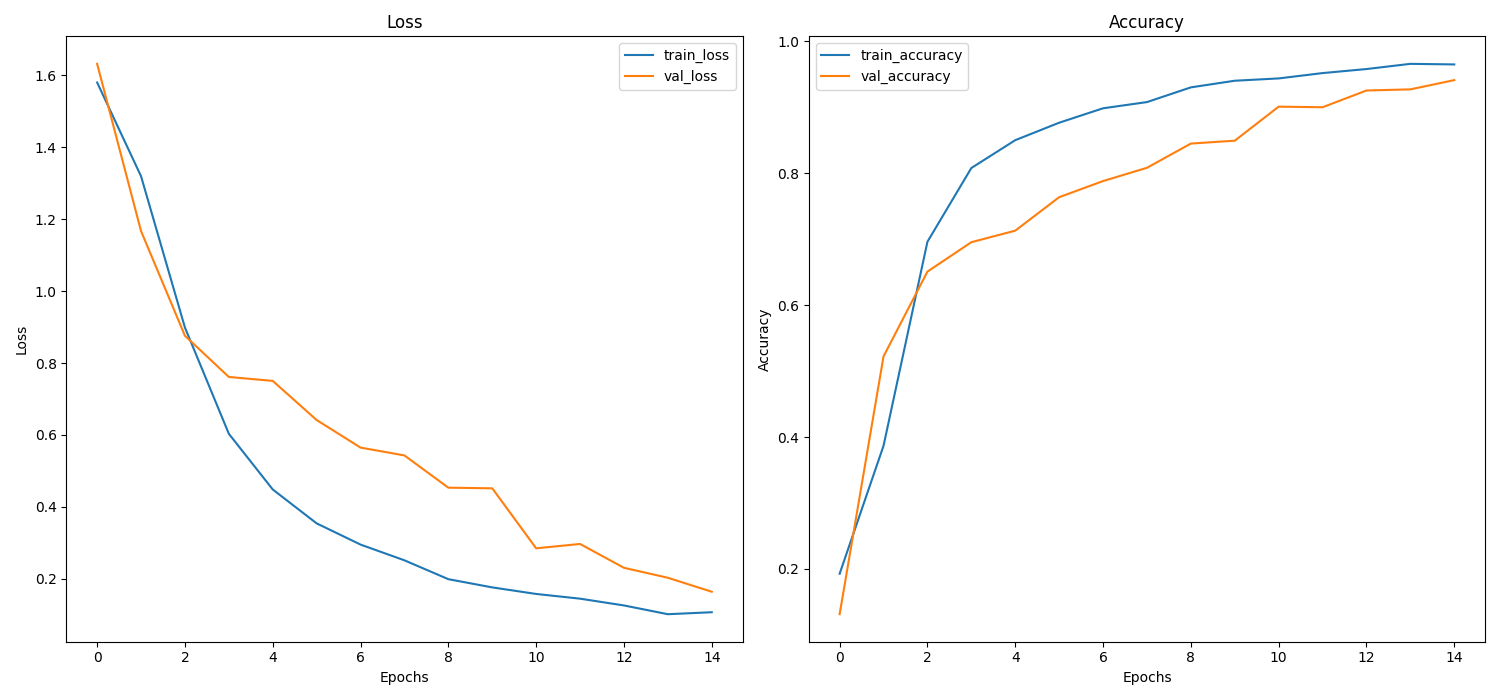
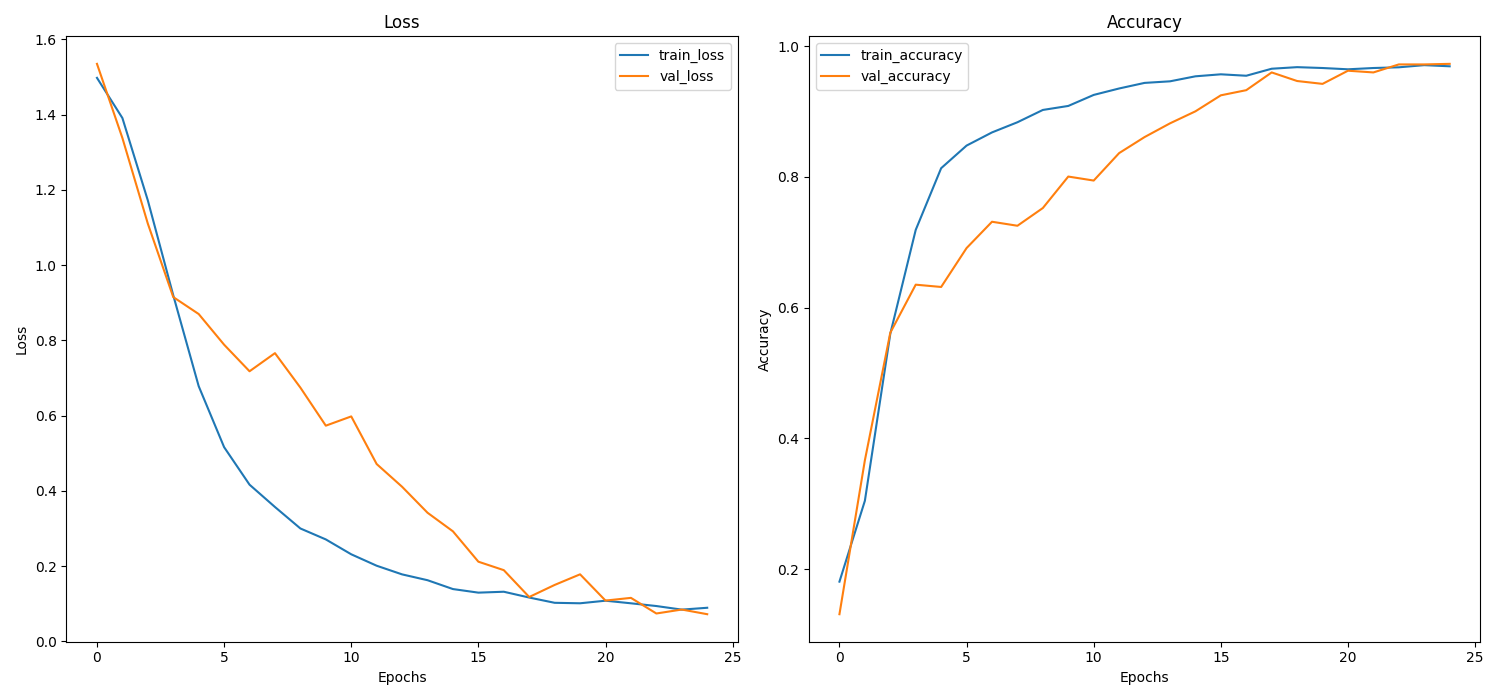
finetuning

diff --git a/vit/create_model.py b/vit/create_model.py
@@ -20,7 +20,7 @@ PATCH_SIZE = 16
 NUM_HEADS = 12
 MLP_SIZE = 3072
 MLP_DROPOUT = 0.1
-ATTENTION_DROPOUT = 0.1  # Paper used 0.0 for large datasets, it's increased here to prevent overfitting on this smaller dataset
+ATTENTION_DROPOUT = 0
 
 IN_CHANNELS = 3  # RGB images
 EMBEDDED_DIM = PATCH_SIZE * PATCH_SIZE * IN_CHANNELS
@@ -33,12 +33,23 @@ LEARNING_RATE = 0.0001 # The paper used 3e-3 (0.003)
 BETAS = (0.9, 0.999)
 WEIGHT_DECAY = 0.01 # The paper used 0.1
 
+# Fine tuning parameters (comment out the above parameters and uncomment these to use)
+FT_ATTENTION_DROPOUT = 0.1  # Paper used 0.0 for large datasets, it's increased here to prevent overfitting on this smaller dataset
+FT_NUM_EPOCHS = 10  # Reduced epochs for fine-tuning
+FT_WEIGHT_DECAY = 0.001  # Reduced weight decay for fine-tuning
+FT_LEARNING_RATE = 0.00001  # Reduced learning rate for fine-tuning
+FT_LABEL_SMOOTHING = 0.1  # Label smoothing to help with overfitting
+
 # Dataset directories
 train_dir = "data/Training"
 test_dir = "data/Testing"
 
 # Pretrained weights from PyTorch ViT model trained on ImageNet1k
-pretrained_weights = 'vit/model/vit_b_16-c867db91.pth'
+pretrained_weights_pytorch = 'vit/model/vit_b_16-c867db91.pth'
+
+# Weights to fine-tune from first training run
+pretrained_weights_15epoch = 'vit/model/15epoch.pth'
+pretrained_weights_25epoch = 'vit/model/25epoch.pth'
 
 def main():
     # Set device to MPS (Apple Silicon) if available, otherwise use CPU
@@ -69,29 +80,29 @@ def main():
         num_heads=NUM_HEADS,
         mlp_size=MLP_SIZE,
         mlp_dropout=MLP_DROPOUT,
-        attention_dropout=ATTENTION_DROPOUT,
+        attention_dropout=FT_ATTENTION_DROPOUT,
         num_classes=num_classes
     ).to(device)
     
     # Load pretrained weights from HuggingFace ViT model
-    model = load_pretrained_weights(model, pretrained_weights=pretrained_weights)
+    model = load_pretrained_weights(model, pretrained_weights=pretrained_weights_15epoch)
 
     # Print model summary
     #model_summary(model)
     
     # The loss function used in the paper is CrossEntropyLoss
-    loss_fn = torch.nn.CrossEntropyLoss()
+    loss_fn = torch.nn.CrossEntropyLoss(label_smoothing=FT_LABEL_SMOOTHING)
 
     # Define Adam Optimizer as in the paper
     optimizer = torch.optim.Adam(
         params=model.parameters(), 
-        lr=LEARNING_RATE,
+        lr=FT_LEARNING_RATE,
         betas=BETAS,
-        weight_decay=WEIGHT_DECAY
+        weight_decay=FT_WEIGHT_DECAY
     )
 
     # Total and warmup steps for learning rate scheduler
-    total_steps = len(train_dataloader) * NUM_EPOCHS
+    total_steps = len(train_dataloader) * FT_NUM_EPOCHS
     warmup_steps = int(0.1 * total_steps)  # 10% warmup
 
     # Cosine LR scheduler with warmup (helps avoid bad local minima early in training)
@@ -108,7 +119,7 @@ def main():
                     optimizer=optimizer,
                     scheduler=scheduler,
                     loss_fn=loss_fn,
-                    epochs=NUM_EPOCHS,
+                    epochs=FT_NUM_EPOCHS,
                     device=device)
     
     # Test the model

diff --git a/vit/utils.py b/vit/utils.py
@@ -26,7 +26,7 @@ def get_metrics(y_true, y_pred):
         'report': classification_report(y_true, y_pred), # Contains f1-score, precision, and recall
     }
 
-    print(f"Accuracy: {metrics['accuracy']:.4f}")
+    #print(f"Accuracy: {metrics['accuracy']:.4f}")
     print(metrics['report'])
 
     return metrics
@@ -78,9 +78,9 @@ def load_pretrained_weights(model, pretrained_weights):
     converted_state_dict = rename_keys(state_dict)
 
     # Changing the pretrained head weights to match the custom model's head, since the custom model has a different head structure
-    keys_to_update = [k for k in converted_state_dict.keys() if 'mlp_head.linear' in k]
+    """keys_to_update = [k for k in converted_state_dict.keys() if 'mlp_head.linear' in k]
     for k in keys_to_update:
-        converted_state_dict[k] = model.state_dict()[k]
+        converted_state_dict[k] = model.state_dict()[k]"""
 
     model.load_state_dict(converted_state_dict, strict=True)
 
